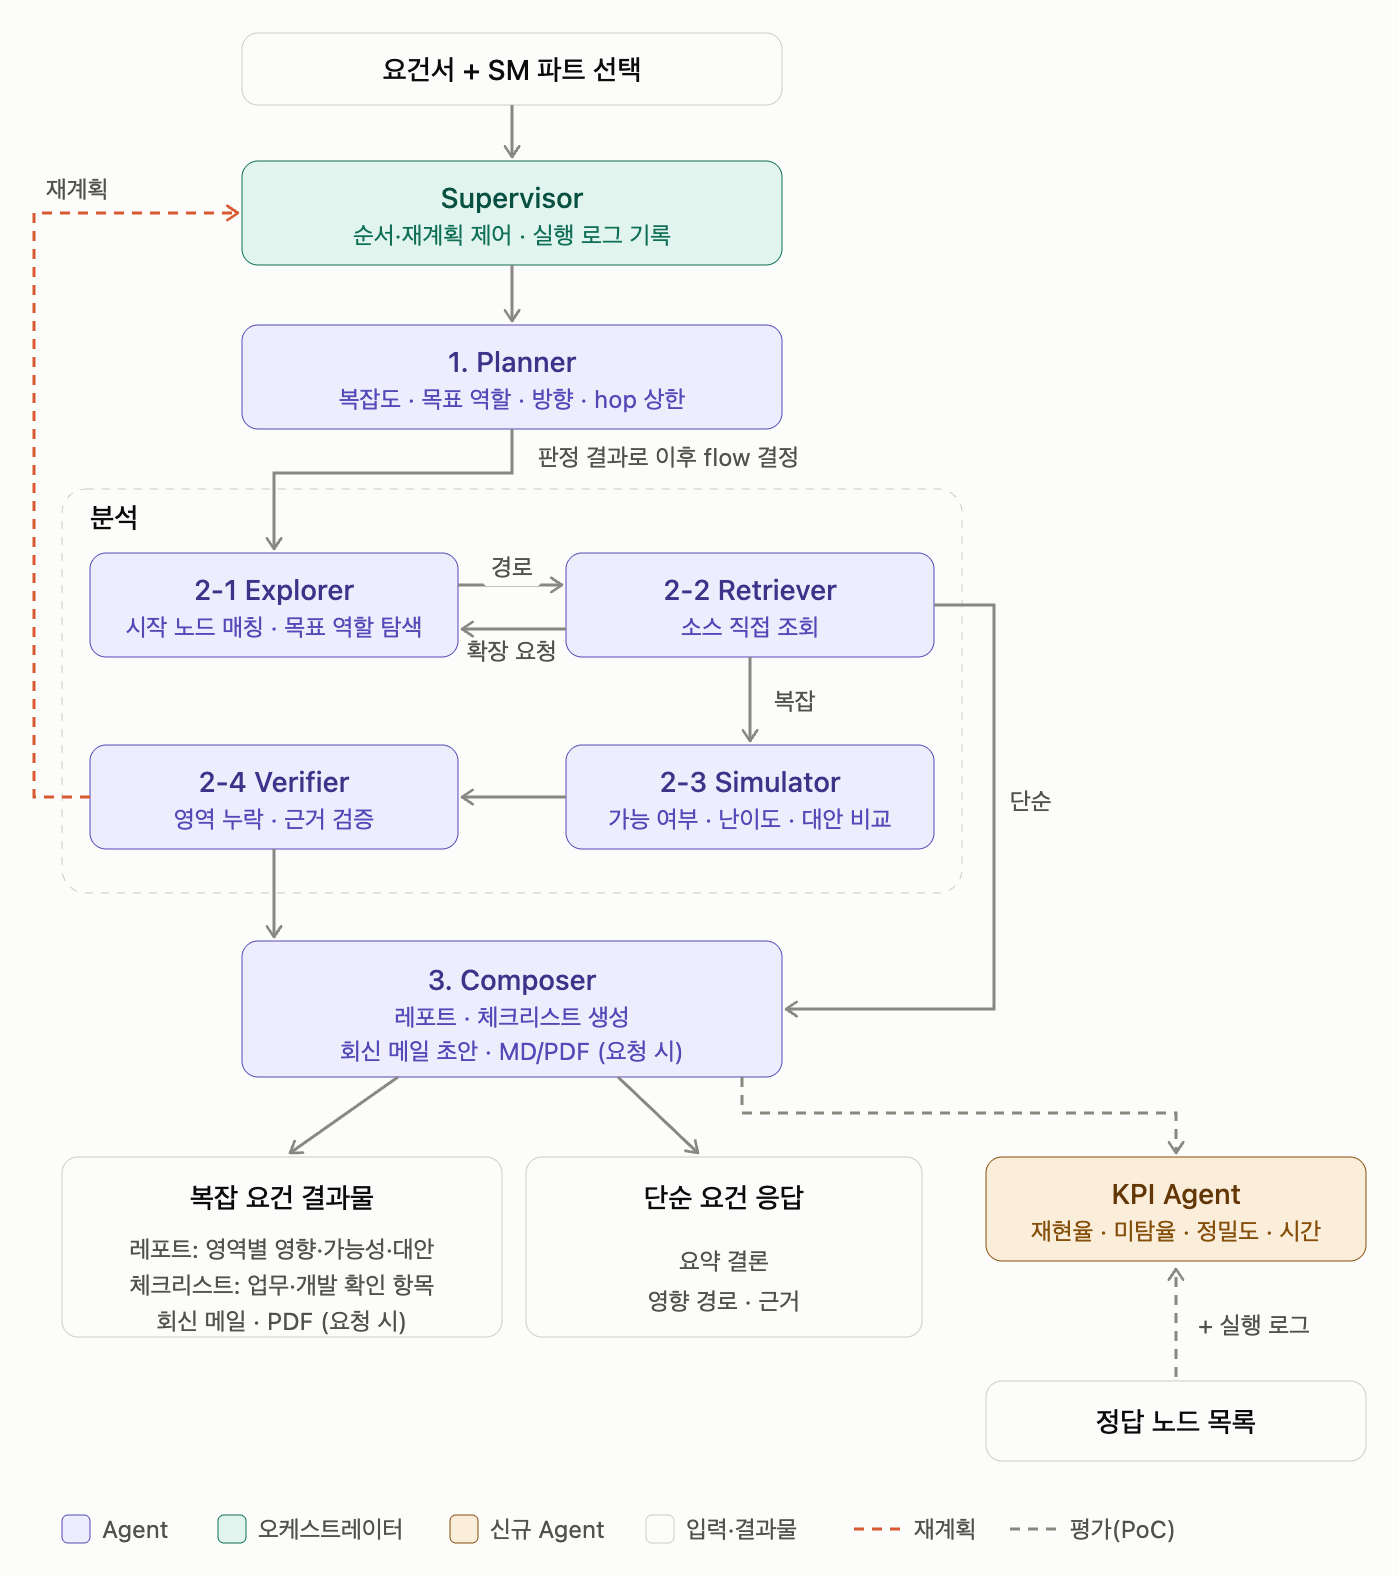
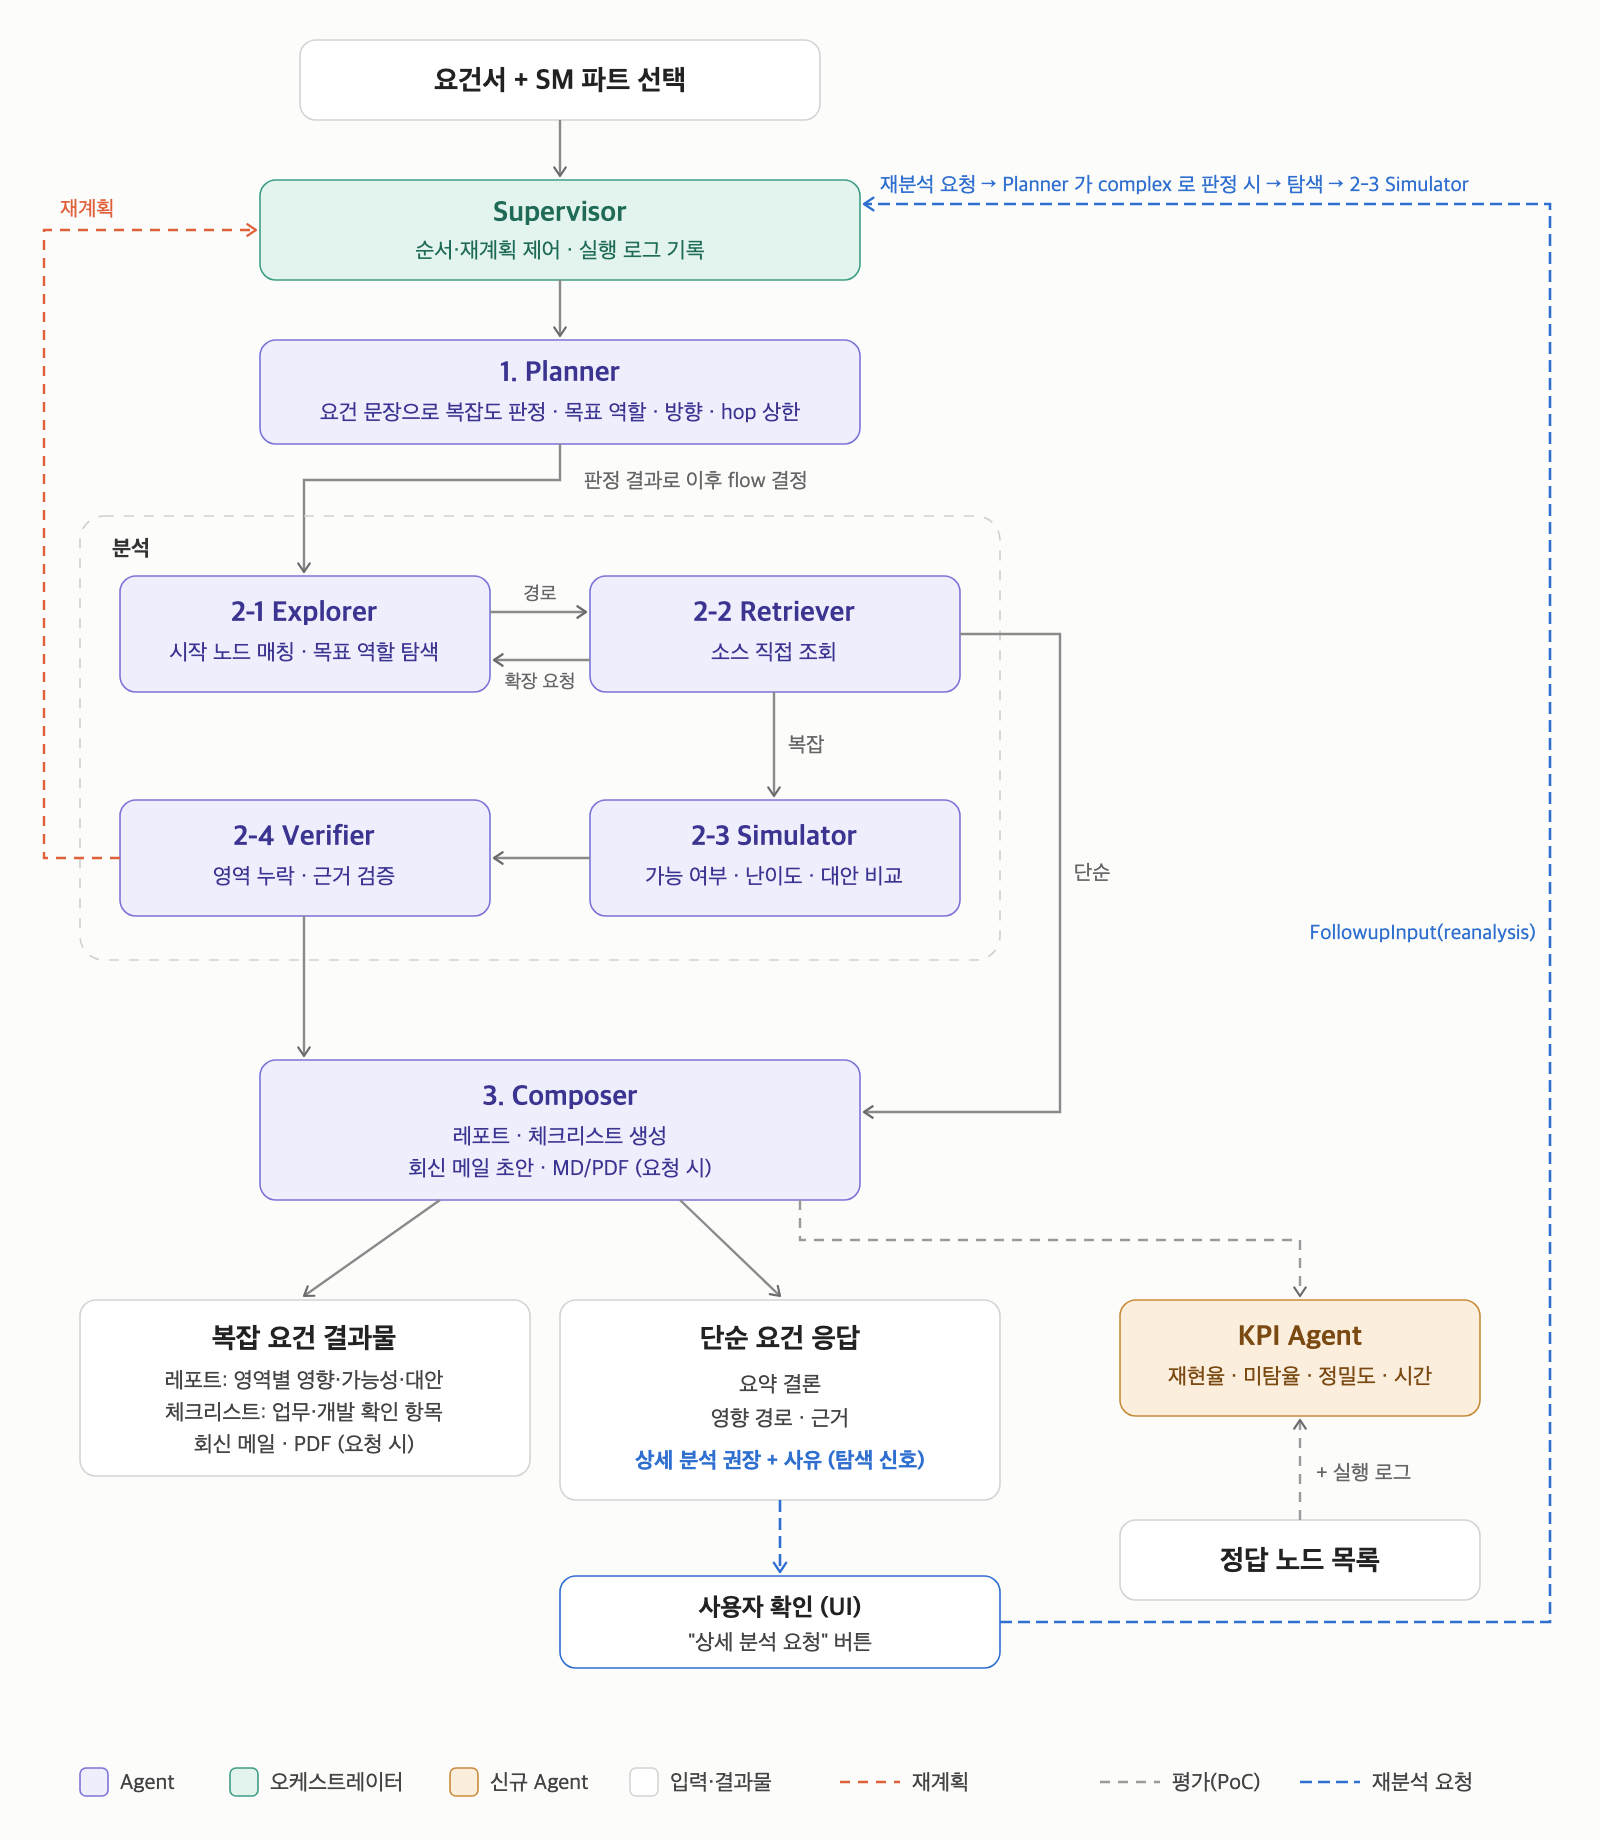
설계서·워크플로 그림에 상세 분석 재분석 흐름 반영_20261029
- agent_workflow.svg / agent_workflow_diagram.png: 단순 응답의 상세 분석 권장 → 사용자 확인(UI) → reanalysis → Planner complex 판정 → 2-3 Simulator (파란 점선)
- YJ_agent_design.md: Supervisor·Planner to-be 구조, 경로 정리·핵심 근거, v5 결과·남은 과제
- README 흐름도에 재분석 흐름 추가

Claude-Session: https://claude.ai/code/session_019kkVPHKurjxVT9nH9jjPXT

diff --git a/README.md b/README.md
@@ -24,7 +24,8 @@
                                               ▼       ▼
  3. Composer ── 레포트 · 체크리스트 / 회신 메일 초안 · MD/PDF (요청 시)
         ├─▶ 복잡: ComplexReport (영역별 영향·가능성·대안, 업무·개발 확인 체크리스트)
-        ├─▶ 단순: SimpleAnswer (요약 결론, 영향 경로·근거)
+        ├─▶ 단순: SimpleAnswer (요약 결론, 영향 경로·근거, 상세 분석 권장·사유)
+        │        └ 사용자 확인(UI) → reanalysis → Supervisor → Planner 가 complex 로 판정 → 2-3 Simulator
         ┆
         ┆ (PoC 평가)
         ▼
